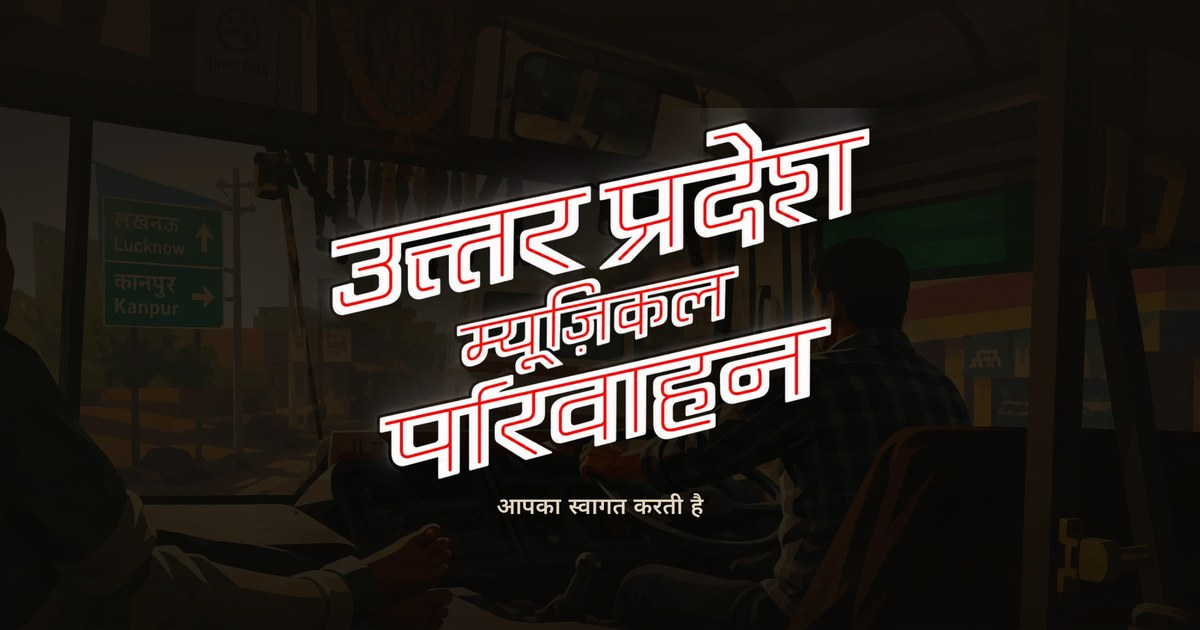
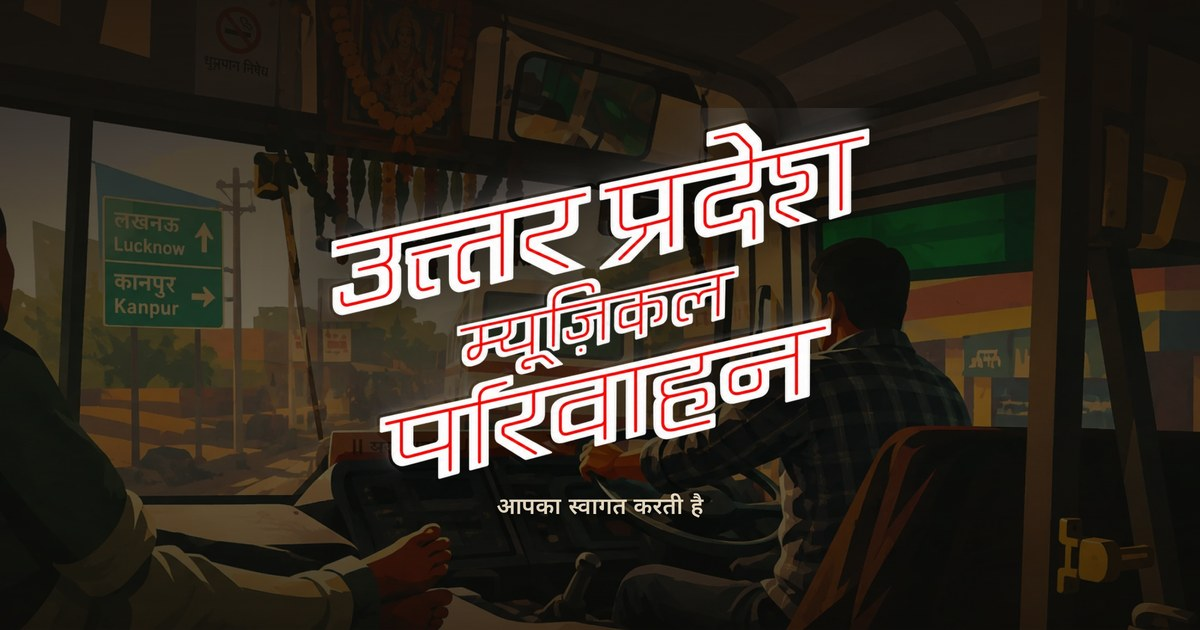
Lighten the preview card's darkening to 20%
The frame was at 34% of its brightness, which read as a black card with a
title on it rather than as the bus. It now sits at 80% — a 20% darkening —
so the artwork is legible and the title still carries, helped by the glow
and vignette it already had.

og:image goes to ?v=4.

Claude-Session: https://claude.ai/code/session_01MJ98bimU81Ezjo2cjNtVfW

diff --git a/index.html b/index.html
@@ -21,14 +21,14 @@
      were unreadable specks competing with the name.
      Bump ?v= when the card is regenerated — every platform caches these by
      URL, and several never re-fetch the same one. -->
-<meta property="og:image" content="https://upbusdriver.wtf/images/og-card.jpg?v=3">
+<meta property="og:image" content="https://upbusdriver.wtf/images/og-card.jpg?v=4">
 <meta property="og:image:width" content="1200">
 <meta property="og:image:height" content="630">
 <meta property="og:image:alt" content="उत्तर प्रदेश म्यूज़िकल परिवाहन — बस के अंदर से सड़क का दृश्य">
 <meta name="twitter:card" content="summary_large_image">
 <!-- X reads og:* as a fallback, but naming the image explicitly avoids
      depending on that. -->
-<meta name="twitter:image" content="https://upbusdriver.wtf/images/og-card.jpg?v=3">
+<meta name="twitter:image" content="https://upbusdriver.wtf/images/og-card.jpg?v=4">
 
 <link rel="icon" href="favicon.svg" type="image/svg+xml">
 <link rel="preload" as="font" type="font/woff2" href="fonts/noto-devanagari.woff2" crossorigin>
